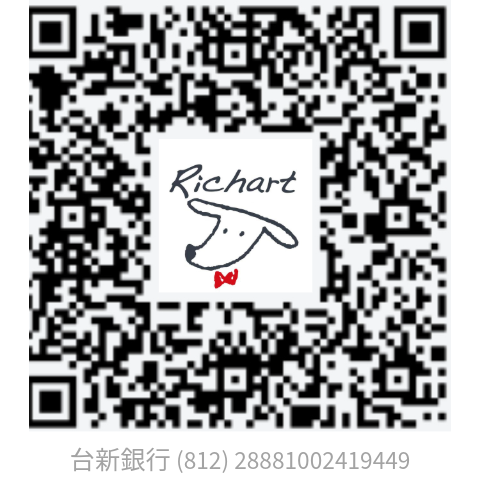
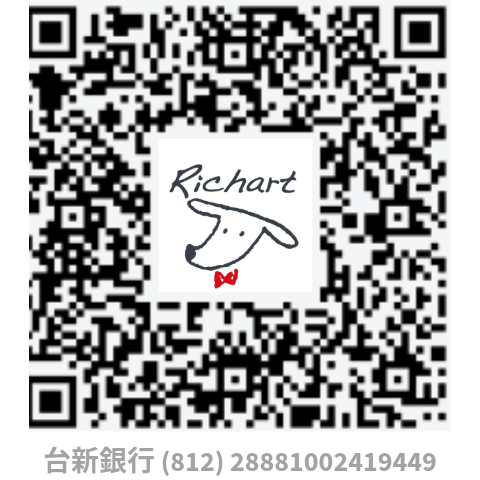
調整文章和圖片

Changed region(s): [[0.0938, 0.9062, 0.9062, 1.0]]

diff --git a/src/pages/SponsorUs.js b/src/pages/SponsorUs.js
@@ -23,7 +23,7 @@ const SponsorUs = () => {
       description: (
         <>
           <a href="https://service.jkopay.com/r/transfer?j=Transfer:900112965" target="_blank" rel="noopener noreferrer" style={{display: 'inline'}}>點此</a>
-          開啟街口支付，或是掃描下方 QR Code
+          開啟街口，或用街口掃描下方 QR Code
         </>
       ),
     },
@@ -31,7 +31,7 @@ const SponsorUs = () => {
       name: 'Line Pay (iPass Money)',
       logo: linepay_logo, // Line Pay Logo 圖片路徑
       image: linepay_qrcode, // Line Pay QR Code 圖片路徑
-      description: '掃描下方 QR Code',
+      description: '用 Line Pay 掃描下方 QR Code',
     },
     {
       name: 'Richart (台新銀行)',
@@ -40,7 +40,7 @@ const SponsorUs = () => {
       description: (
         <>
           <a href="https://mobile.richart.tw/TSDIB_RichartWeb/RC04/RC040300?token=8E0E498D2E4392B5DD6EB5D452677114" target="_blank" rel="noopener noreferrer" style={{display: 'inline'}}>點此</a>
-          開啟 Richart，或是掃描下方 QR Code
+          開啟 Richart，或是掃描下方 QR Code 自動帶入帳號資訊，也可以手動輸入底下帳戶資訊
         </>
       ), // 您可以根據實際情況修改描述
     },
@@ -48,7 +48,7 @@ const SponsorUs = () => {
       name: '國泰世華銀行',
       logo: cathay_logo, // cathay Logo 圖片路徑 (假設您有)
       image: cathay_qrcode, // cathay QR Code 圖片路徑 (假設您有)
-      description: '掃描下方 QRcode。',
+      description: '用銀行 App 掃描下方 QRcode 可以自動帶入，或是手動輸入底下帳戶資訊',
     },
     // 可以繼續添加其他的收款方式
   ];
@@ -110,12 +110,13 @@ const SponsorUs = () => {
         <div className="text-description-section">
           <h2>一起幫助更多人</h2>
           <p>
-            Sentiment Inside Out 網站的後台維護、工具和內容創作都是由我這個一人團隊打造的，<br></br>
-            我希望藉由分享這些免費、簡單的工具，能幫助更多人在投資上獲得超越大盤的回報。<br></br>
-            但要維持網站的運作，每一天都有一定的費用支出，長期下來其實也是不小的開銷。<br></br>
-            因此我想誠摯地邀請你/妳，一起和我幫助更多人，讓這個網站能繼續營運下去;<br></br>
-            或者就當作是請我喝個咖啡、吃個飯，我也會非常感激。<br></br>
-            不論有無贊助，都祝福你/妳投資順利，一切都會更好！
+            Sentiment Inside Out 網站的建置、投資工具和內容創作、防範網路攻擊...等等，<br></br>
+            背後其實只有一個人在維護。<br></br><br></br>
+            我希望藉由分享這些免費、簡單的工具，<br></br>幫助更多人在投資上獲得超越大盤的回報。<br></br><br></br>
+            但要維持網站的運作，<br></br>每一天都要付出一定的費用和時間，<br></br>長期下來其實也是不小的負擔。<br></br><br></br>
+            因此我想誠摯地邀請你/妳，<br></br>一起和我幫助更多人，<br></br>讓這個網站能繼續營運下去;<br></br>
+            或者就當作是請我喝個咖啡、吃個飯，<br></br>我也會非常感激。<br></br><br></br>
+            不論有無贊助，<br></br>都祝福你/妳投資順利、一切都更好！
           </p>
         </div>
 

diff --git a/src/pages/SponsorUs.css b/src/pages/SponsorUs.css
@@ -31,7 +31,7 @@
 .text-description-section {
     text-align: center;
     margin-bottom: 40px;
-    color: #333;
+    color: #888;
 }
   
 .text-description-section h2 {
@@ -42,7 +42,7 @@
   
 .text-description-section p {
     font-size: 1.1em;
-    color: #555;
+    color: #888;
     line-height: 1.7;
     margin-bottom: 25px;
 }
